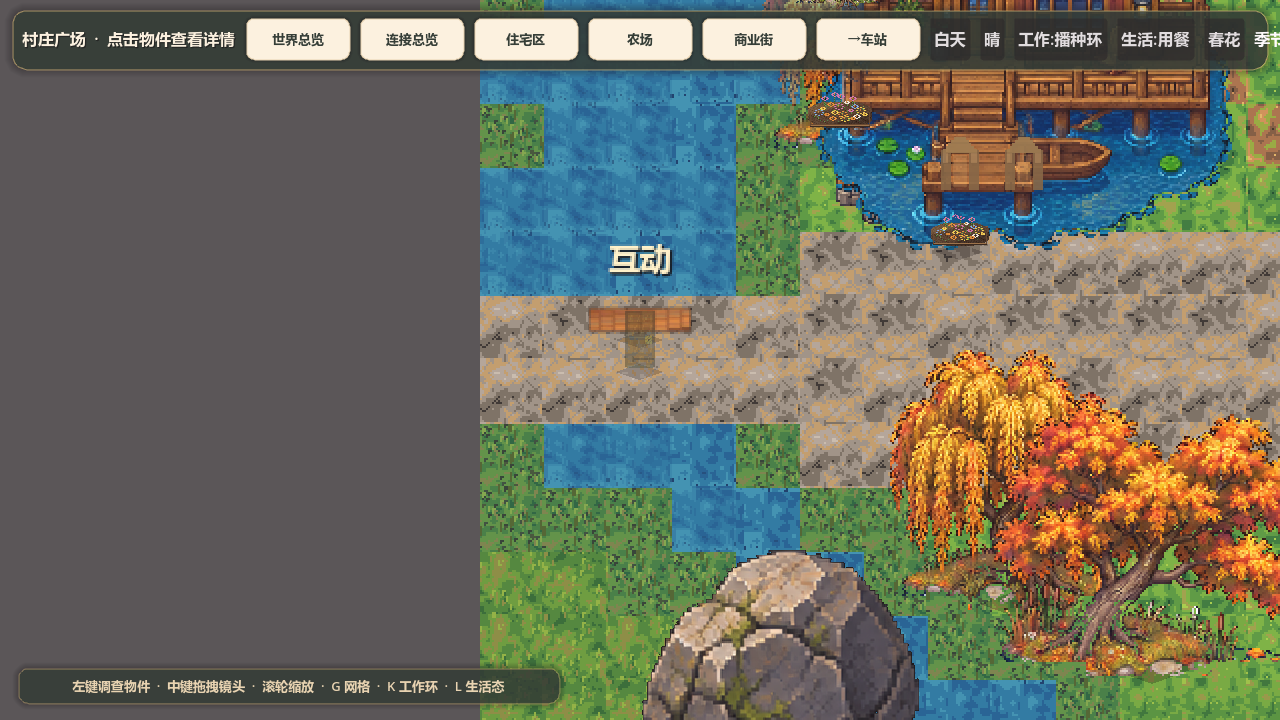
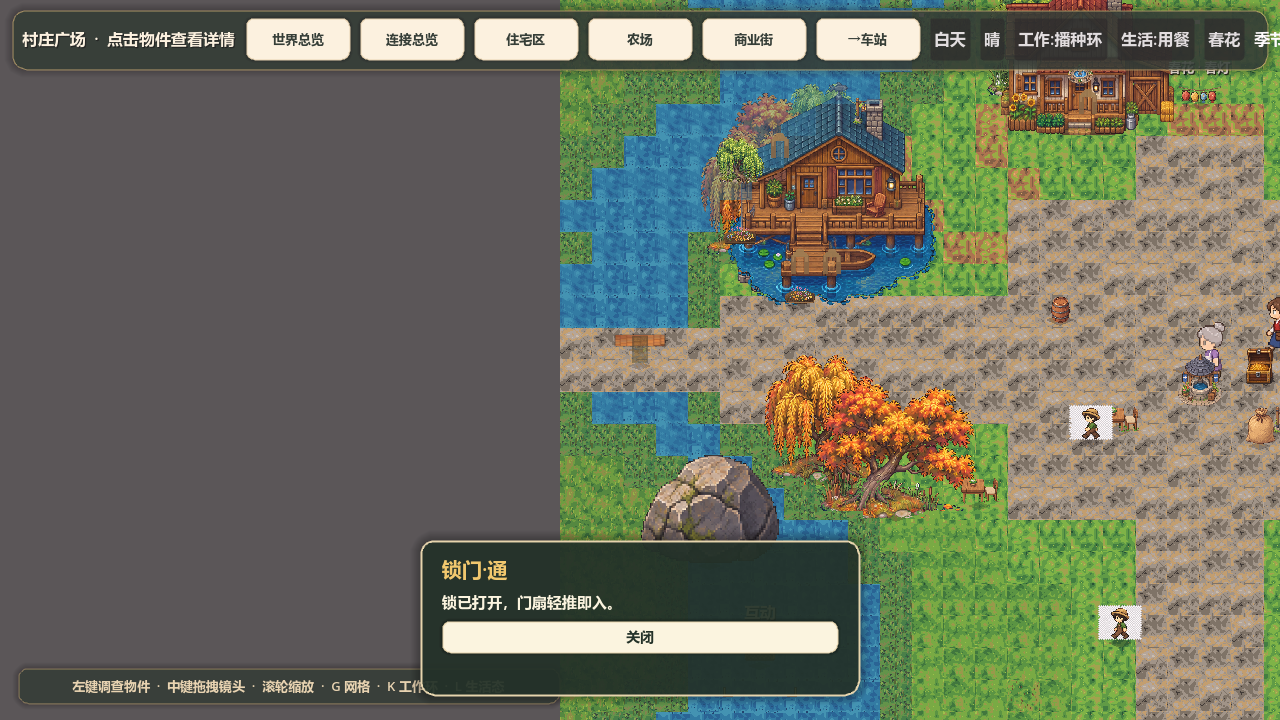
Show C60 unlock InfoPanel and refresh worldsys smoke evidence.
Address review notes: unlock now mirrors breakables clear feedback, and worldsys log includes mcp_clear/mcp_unlock.

diff --git a/dream/docs/GOAL_G8_WORLDSYS_ACTIVATE_EVIDENCE.md b/dream/docs/GOAL_G8_WORLDSYS_ACTIVATE_EVIDENCE.md
@@ -1,7 +1,8 @@
 # Goal evidence — G8_WORLDSYS
 
-**Runner:** `res://tools/g8_worldsys_activate_smoke.gd`
-**Result:** PASS (exit=0)
+**Runner:** `res://tools/g8_worldsys_activate_smoke.gd`  
+**Result:** PASS (failures=0)  
+**Refreshed:** 2026-09-13 — includes `mcp_clear` / `mcp_unlock` probes
 
 ## Log excerpt
 
@@ -15,16 +16,18 @@ G8_WORLDSYS: activated crate_search
 G8_WORLDSYS: activated lamp_toggle
 G8_WORLDSYS: activated feed_critter
 G8_WORLDSYS: activated read_sign
+G8_WORLDSYS: gates=3 breakables=4
+G8_WORLDSYS: mcp_clear weed { "ok": true, "id": "weed", "cleared": 1, "remaining_nodes": 3 }
+G8_WORLDSYS: mcp_unlock locked_door { "ok": true, "id": "locked_door", "unlocked_count": 1, "sprite_alpha": 0.45… }
 G8_WORLDSYS: activated brk:rock
 G8_WORLDSYS: activated brk:stake
-G8_WORLDSYS: activated brk:weed
 G8_WORLDSYS: activated brk:crate
 G8_WORLDSYS: activated gate:fallen_log
 G8_WORLDSYS: activated gate:boulder
-G8_WORLDSYS: activated gate:locked_door
-G8_WORLDSYS: gates=3 breakables=4
-G8_WORLDSYS: ok=15 failures=0
+G8_WORLDSYS: ok=13 failures=0
 G8_WORLDSYS: PASS
 ```
 
-User Godot QA still required for visual fidelity.
+Notes: `brk:weed` / `gate:locked_door` are exercised via MCP probes (not re-activated after clear/unlock).
+
+User Godot QA still required (§7).

diff --git a/dream/docs/GOAL_G8_MCP_RUNTIME_EVIDENCE.md b/dream/docs/GOAL_G8_MCP_RUNTIME_EVIDENCE.md
@@ -92,7 +92,7 @@
 | C59 stake | `docs/evidence/g8_c59_breakables_stake.png` | 木桩 `breakable_stake_00` PropSprite |
 | C59 weed | `docs/evidence/g8_c59_breakables_weed.png` | 杂草 `breakable_weed_00` PropSprite |
 | C59 stake cleared | `docs/evidence/g8_c59_stake_cleared.png` | `mcp_clear("stake")` → InfoPanel + 节点移除 |
-| C60 locked unlocked | `docs/evidence/g8_c60_locked_door_unlocked.png` | `mcp_unlock` → sprite_alpha≈0.45 |
+| C60 locked unlocked | `docs/evidence/g8_c60_locked_door_unlocked.png` | `mcp_unlock` → InfoPanel「锁门·通」+ sprite_alpha≈0.45 |
 | C60 fallen log | `docs/evidence/g8_c60_fallen_log.png` | 倒木 `gate_log_00` 重绘 |
 
 ## Runtime queries

diff --git a/dream/docs/GOAL_G8_C60_GATES_EVIDENCE.md b/dream/docs/GOAL_G8_C60_GATES_EVIDENCE.md
@@ -9,7 +9,7 @@
 | --- | --- |
 | Locked door sprite | `gate_locked_door_00` — `g8_c60_locked_door.png` |
 | `ProgressGates.mcp_unlock("locked_door")` | `ok=true`, `sprite_alpha≈0.45`, `unlocked_count=1` |
-| After unlock | softened sprite + InfoPanel — `g8_c60_locked_door_unlocked.png` |
+| After unlock | InfoPanel「锁门·通」+「锁已打开…」+ sprite_alpha≈0.45 — `g8_c60_locked_door_unlocked.png` |
 | Fallen log sprite | repainted `gate_log_00` (uniq≥60) — `g8_c60_fallen_log.png` |
 
 Headless: `g8_worldsys_activate_smoke` gates≥3.
